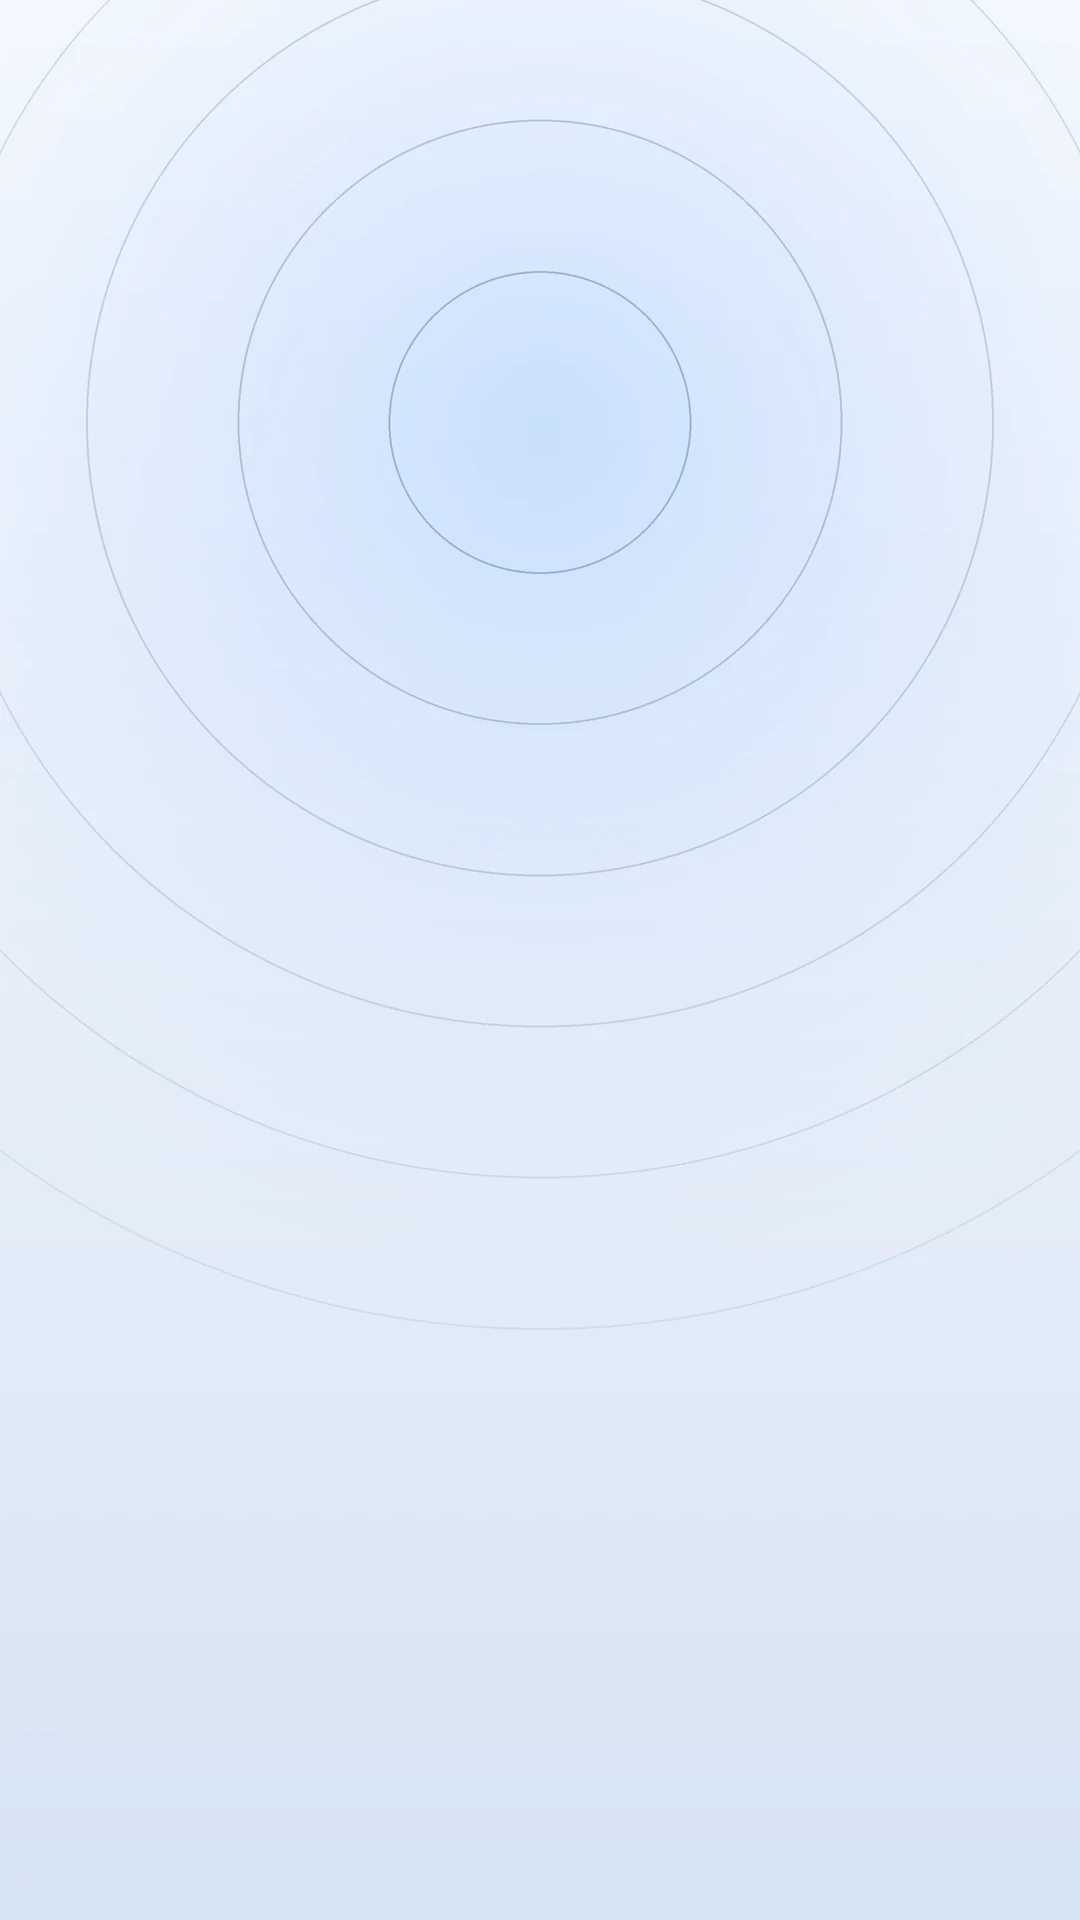
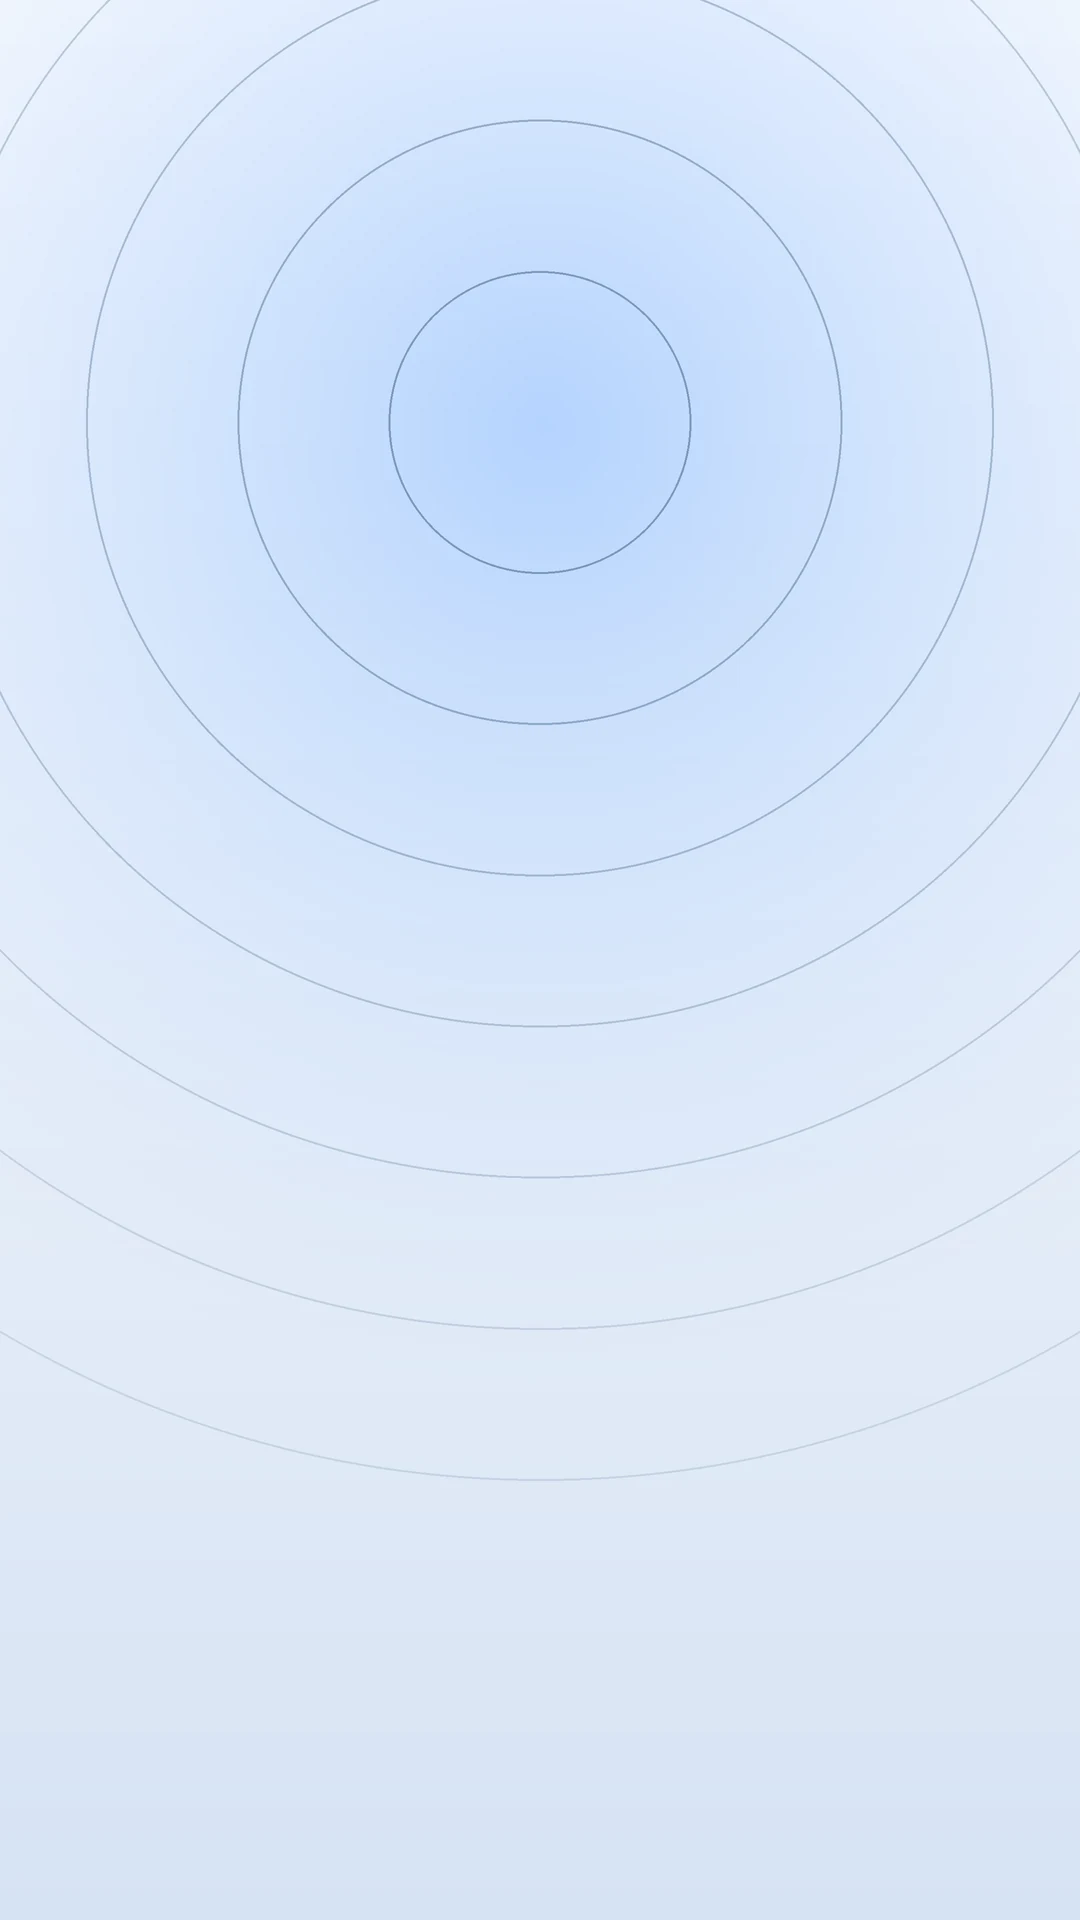
Фон ассистента ИИ ярче (свечение и кольца заметнее в тёмной и светлой темах)

diff --git a/tools/gen_backgrounds.py b/tools/gen_backgrounds.py
@@ -115,8 +115,8 @@ def make(kind, theme, w, h):
         target(img, cx, cy, [step * k for k in range(2, 12)], ring, 0.12 if dark else 0.10, 0.88, lw)
     elif kind == 'ai':
         cx, cy = W / 2, H * 0.22
-        radial(img, cx, cy, int(W * 0.85), t['glow'], 0.38 if dark else 0.50)
-        target(img, cx, cy, [step * k for k in range(1, 7)], ring, 0.34 if dark else 0.28, 0.78, lw)
+        radial(img, cx, cy, int(W * 0.95), t['glow'], 0.70 if dark else 0.75)
+        target(img, cx, cy, [step * k for k in range(1, 8)], ring, 0.55 if dark else 0.40, 0.82, lw)
     elif kind == 'launch':
         # первый кадр заставки (совпадает с lib/widgets/splash_gate.dart): N в круге и кольца
         base = Image.new('RGB', (W, H), (0, 0, 0) if dark else (244, 246, 248))
